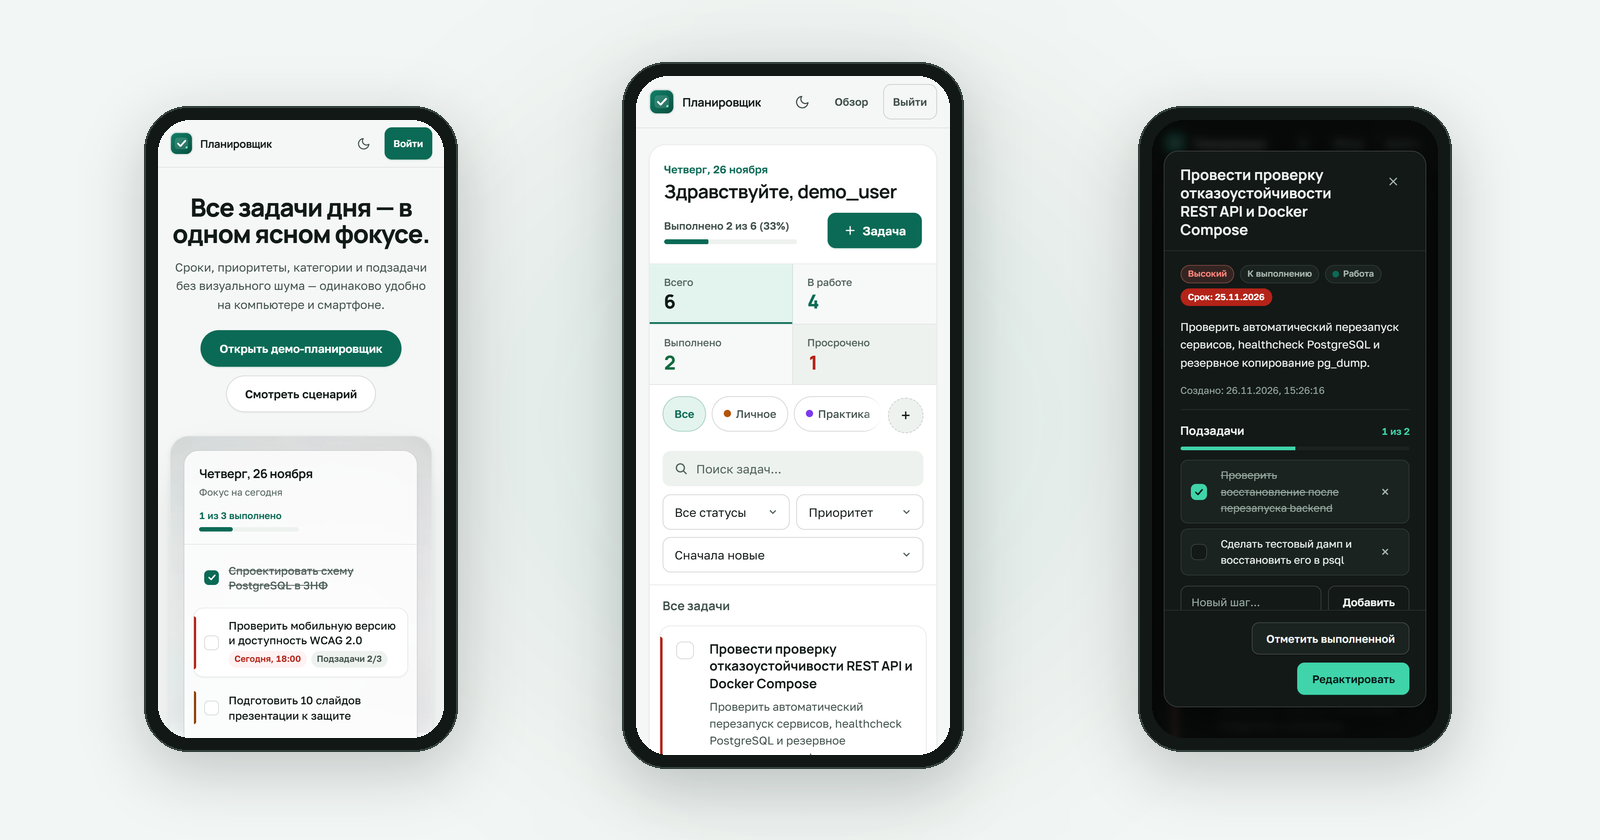
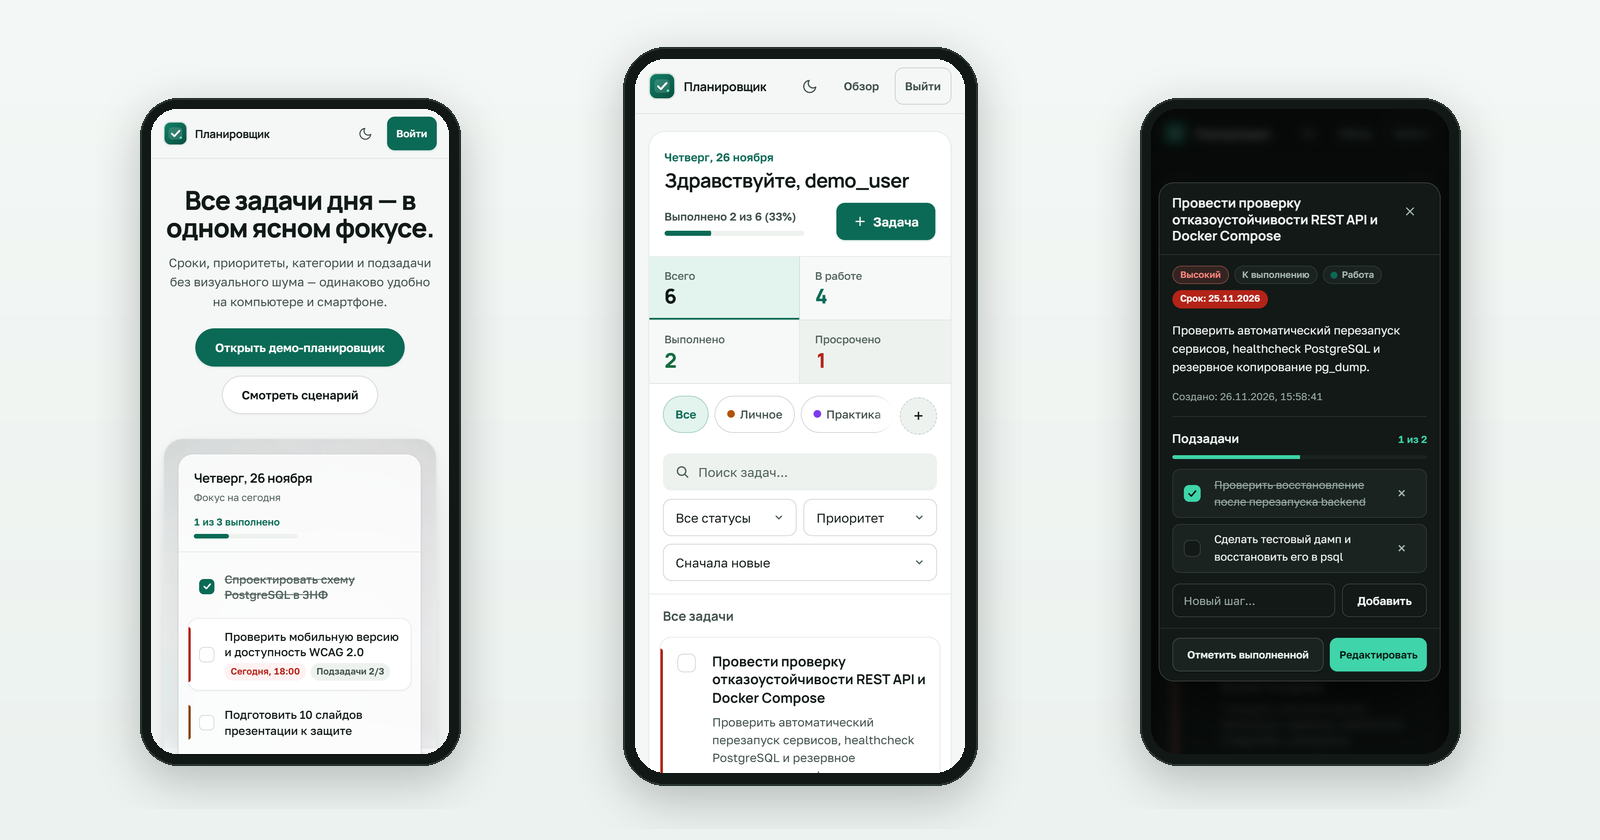
docs: refresh mobile showcase screenshot and v1.0.0 changelog notes

diff --git a/CHANGELOG.md b/CHANGELOG.md
@@ -13,9 +13,11 @@
 - Визуальная документация (`README.md` с адаптивной галереей и Mermaid-схемами) и расширенная проверка GitHub Actions CI для синхронизации статики, иконок и WebP-изображений между `frontend/` и `docs/`.
 
 ### Исправлено
-- Устранены гонки запросов между `loadWorkspace()` и фильтрацией задач, а также закрытие редактора при отложенном сохранении предыдущей задачи.
-- Исправлено позиционирование формы входа при переходе с кнопки «Войти» на узких мобильных экранах (390px) и предотвращено усечение названия в шапке и выпадающих списков фильтров.
-- Добавлено удаление категорий в мобильной шторке и уважение заголовков `Cache-Control: no-store/private` в Service Worker (`sw.js`).
+- Устранены гонки запросов между `loadWorkspace()` и фильтрацией задач, блокировка кнопки «Сохранить» при повторном открытии модального окна и преждевременное закрытие редактора при отложенном сохранении.
+- Исправлена контрастность счётчиков навигации в светлой теме (≥ 5.55:1 во всех темах), приведены к ≥ 44×44 px все интерактивные элементы на визитке, фильтрах и в песочнице.
+- Адаптирована компоновка мобильного окна деталей на 390px (форма добавления подзадач без обрезки, кнопки действий в одну строку), исправлено позиционирование формы входа при переходе с кнопки «Войти» и кадрирование студийного фото.
+- Устранена потеря клавиатурного фокуса при удалении подзадач и завершении задач в активном фильтре, исправлена работа горячих клавиш `/` и `N` сразу после чекбоксов и сброс индикатора прокрутки при `prefers-reduced-motion: reduce`.
+- Добавлено удаление категорий в мобильной шторке и уважение заголовков `Cache-Control: no-store/private` в Service Worker (`sw.js`, кэш `v10`).
 
 ## [0.3.0] — 2026-11-23
 
